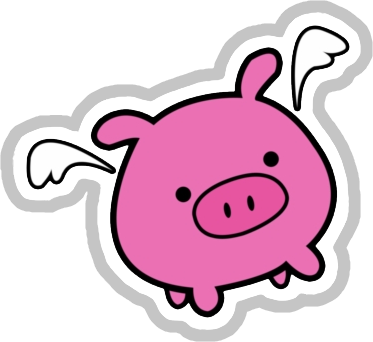
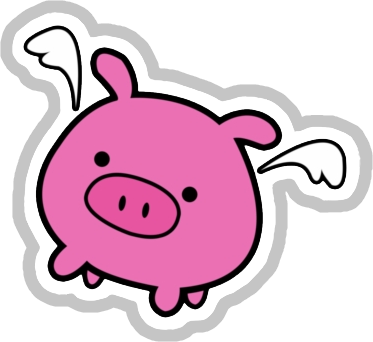
add additional changes to CSS

diff --git a/css/styles.css b/css/styles.css
@@ -11,14 +11,28 @@ html, body {
   color: rgb(189, 117, 117);
   font-family: 'Bangers', cursive;
 }
-
-button:focus {
-  outline:none;
-}
 button {
-  background-color: transparent;
+  color:rgb(255, 219, 210);
+  background-color:rgb(189, 117, 117);
+  border: 5px solid rgb(189, 117, 117);
+  border-style: groove ridge ridge groove;
   border-radius: 10px;
+}
+button:focus {
+  outline: 0;
+}
+button:hover {
+  color: rgb(189, 117, 117);
+  background-color:rgb(255, 219, 210);
+  border: 5px solid rgb(189, 117, 117);
+  border-style: groove ridge ridge groove;
+  border-radius: 10px;
+}
+button:active {
   outline:none;
+  border: 5px solid rgb(255, 219, 210);
+  border-style: ridge groove groove ridge;
+  border-radius: 10px;
 }
 h1 {
   position: fixed;
@@ -28,51 +42,76 @@ h1 {
 }
 
 .rules {
+  background-color: rgb(255, 219, 210);
   position: fixed;
-  bottom:50px;
-  left: 70px;
+  bottom:40px;
+  left: 50px;
   font-size: 20px;
+  /* just added below */
+  border: 7px solid;
+  border-radius: 15px;
+  border-style: groove ridge ridge groove;
+  border-color:rgb(189, 117, 117);
+  padding: 20px;
+  box-shadow: 15px 10px 10px 5px;
 }
 .box {
   margin: auto;
   margin-top: 100px;
   text-align: center;
-  font-size: 25px;
+  font-size: 35px;
   padding-top: 20px;
 }
 .box2 {
   margin: auto;
   margin-right:0px;
   padding: 50px;
-  font-size: 25px;
+  font-size: 35px;
   text-align: center;
-  border:solid;
-  border-radius: 10px 0px 0px 10px;
+  border: 5px solid rgb(189, 117, 117);
+  border-radius: 15px;
+  border-style: groove ridge ridge groove;
+  background-color: rgb(255, 219, 210);
 }
 .box3 {
   margin:auto;
-  margin-left:0px;
+  margin-left:12px;
   padding: 50px;
-  font-size: 25px;
+  font-size: 35px;
   text-align: center;
-  border:solid;
-  border-left: none;
-  border-radius: 0px 10px 10px 0px;
+  border: 5px solid rgb(189, 117, 117);
+  border-radius: 15px;
+  border-style: groove ridge ridge groove;
+  background-color: rgb(255, 219, 210);
 }
 .box4 {
   position: fixed;
-  top: 40%;
+  top: 35%;
   left: 50%;
-  transform: translate(-50%, -70%);
+  transform: translate(-50%, -80%);
 }
 .row-buttons{
   margin: auto;
   size: 100px;
+  position: fixed;
+  margin-left:30%;
 }
-.center {
-  display: flex;
-  justify-content: center;
-  align-items: center;
-  height: 200px;
-  /* border: 3px solid green; */
+
+#current-roll {
+  font-size: 35px;
+}
+
+.pig-image-bottom {
+  position: fixed;
+  bottom:75px;
+  right: 60px;
+  font-size: 20px;
+  width: 300px;
+}
+
+.pig-image-header-left {
+  width: 100px;
+  float: left;
+  margin-left: 200px;
+  margin-top: 20px;
 }

diff --git a/index.html b/index.html
@@ -11,6 +11,7 @@
 
 <body>
   <h1>Pig Dice!</h1>
+  <img src="img/pigglyleft.png" class="pig-image-header-left">
 
   <div class="box4">
     <div class="box">  
@@ -30,7 +31,8 @@
     <div class="row-buttons box">
       <button type="button" id="roll">Roll</button>
       <button type="button" id="hold">Hold</button>
-      <p>Die roll: <div id="current-roll"></div></p>
+      <p>Die roll:</p>
+      <div id="current-roll"></div>
     </div>
   </div>
   <div class="rules">
@@ -41,5 +43,6 @@
     <br>* If a player chooses to "hold", their turn total is added to their score, and it becomes the next player's turn.</p>
     <p>The first player to score 100 or more points wins.</p>
   </div>  
+  <img src="img/piggly.png" class="pig-image-bottom">
 </body>
 </html>
